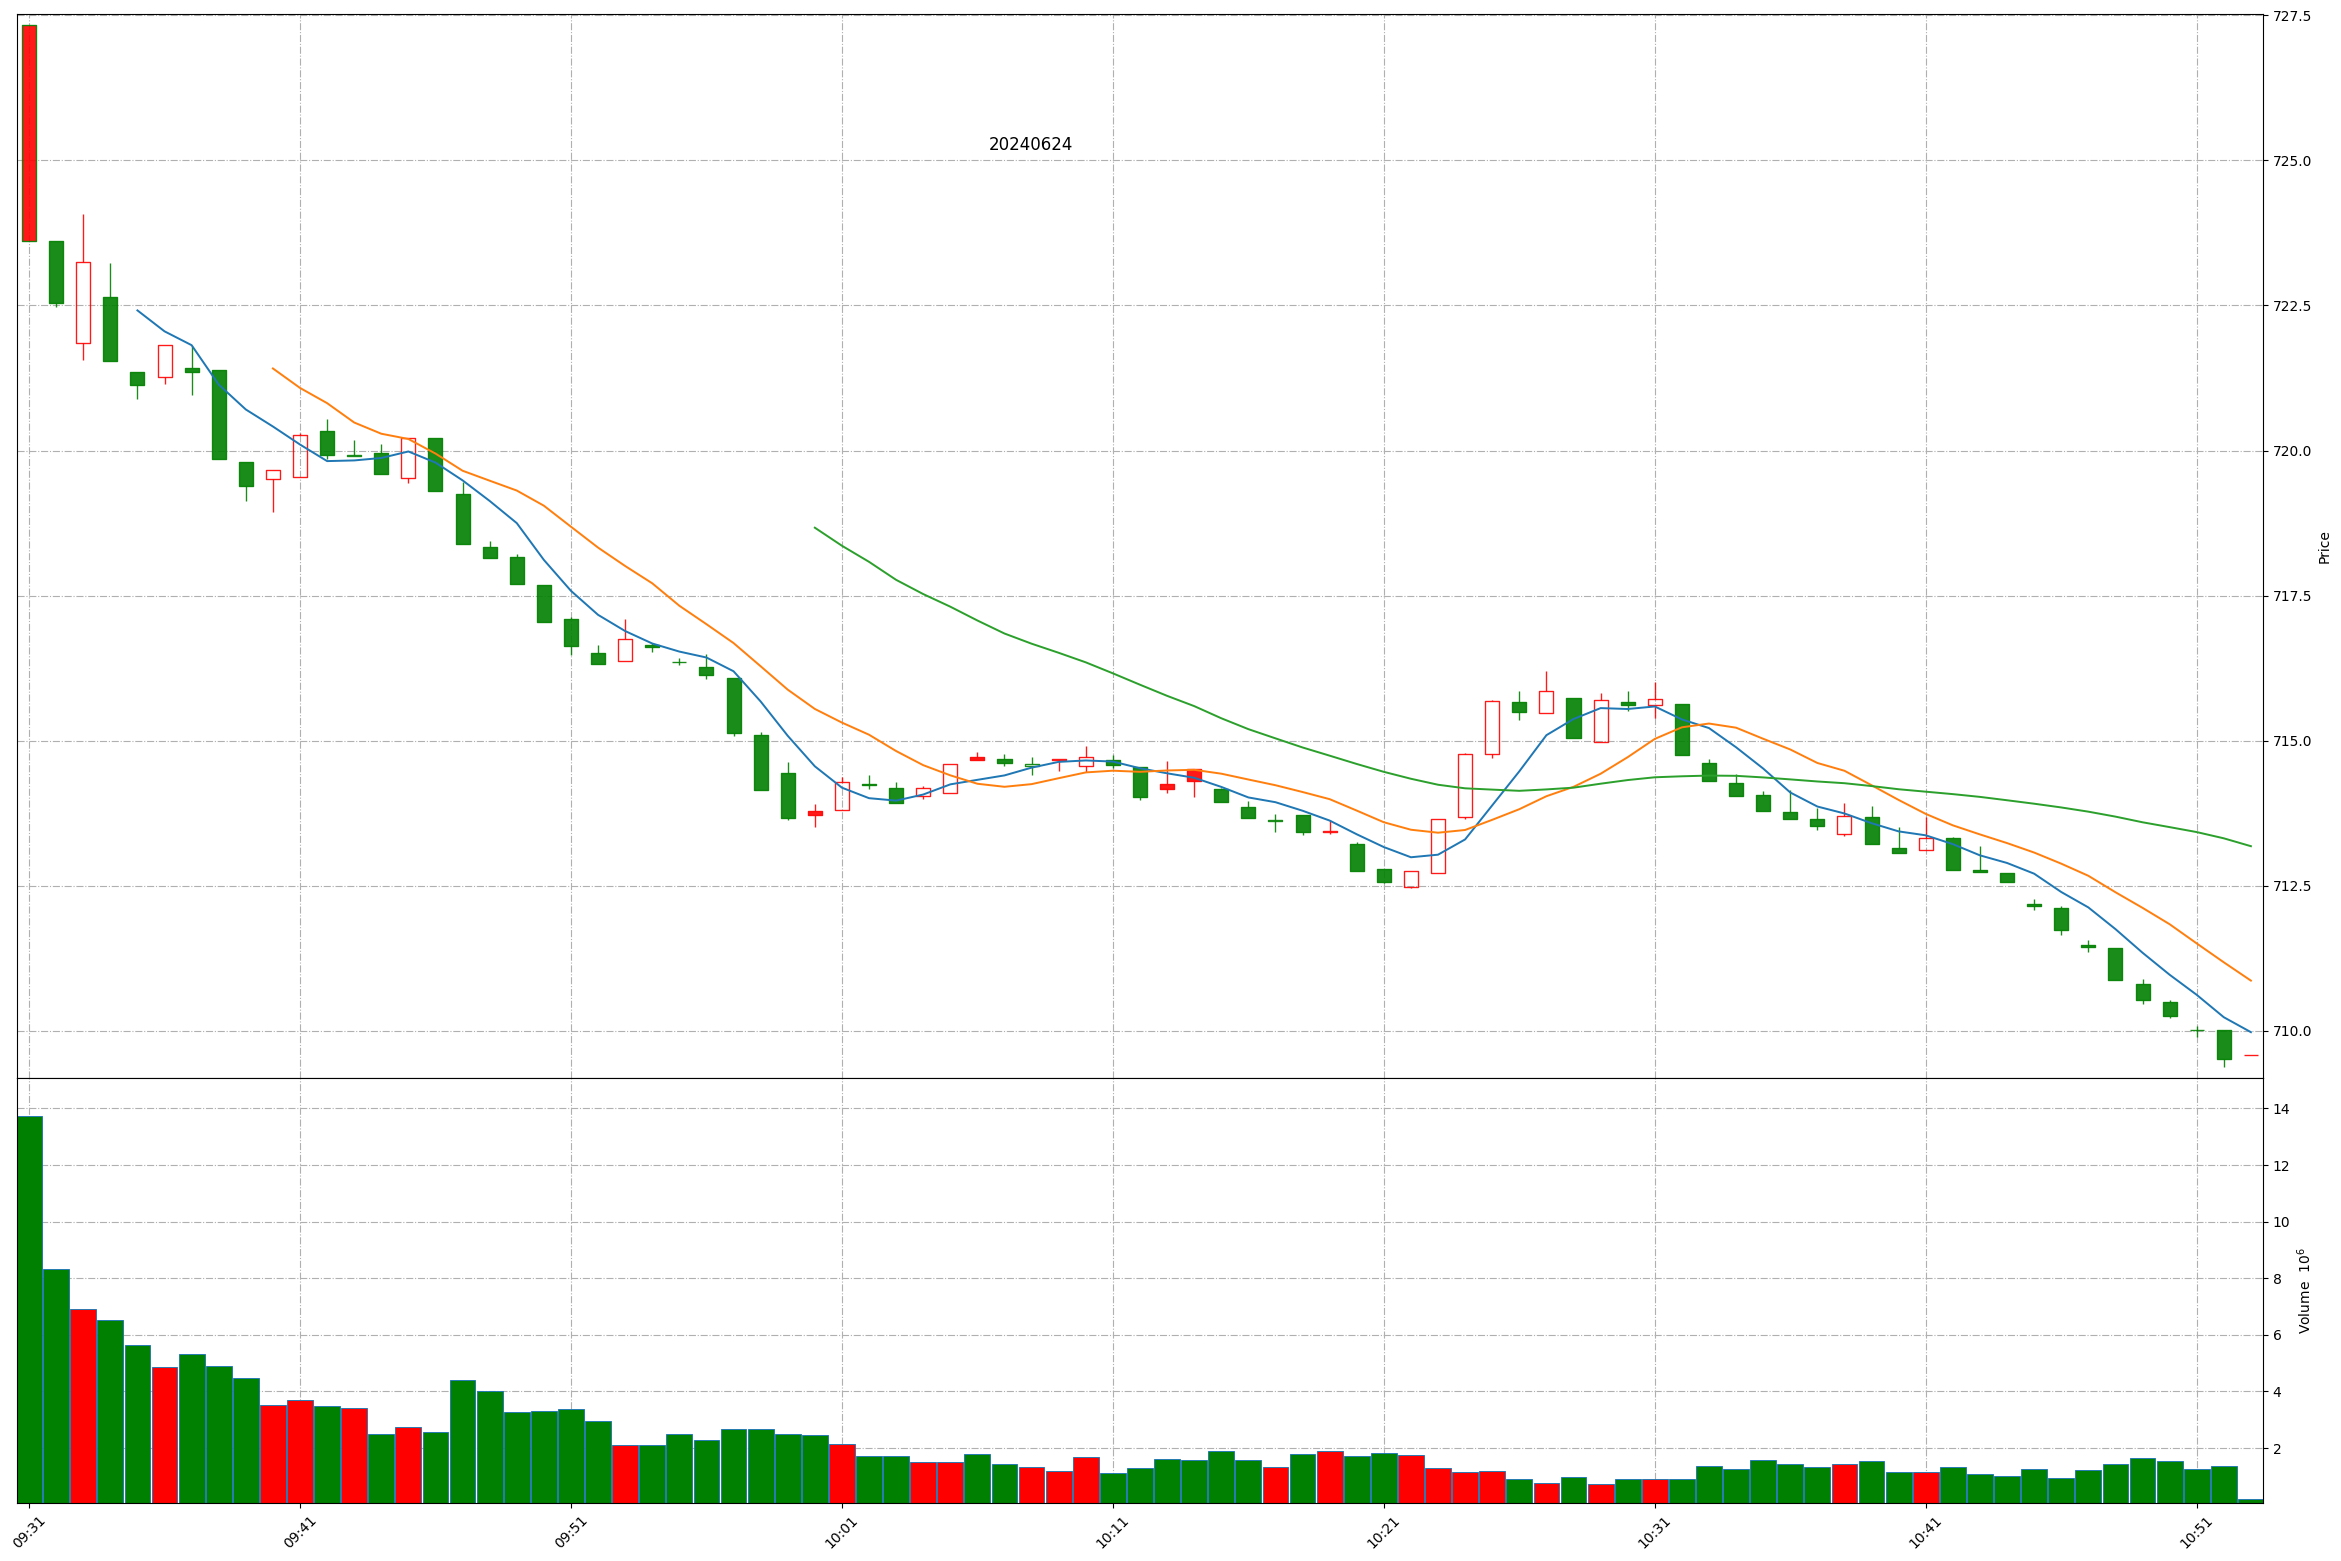
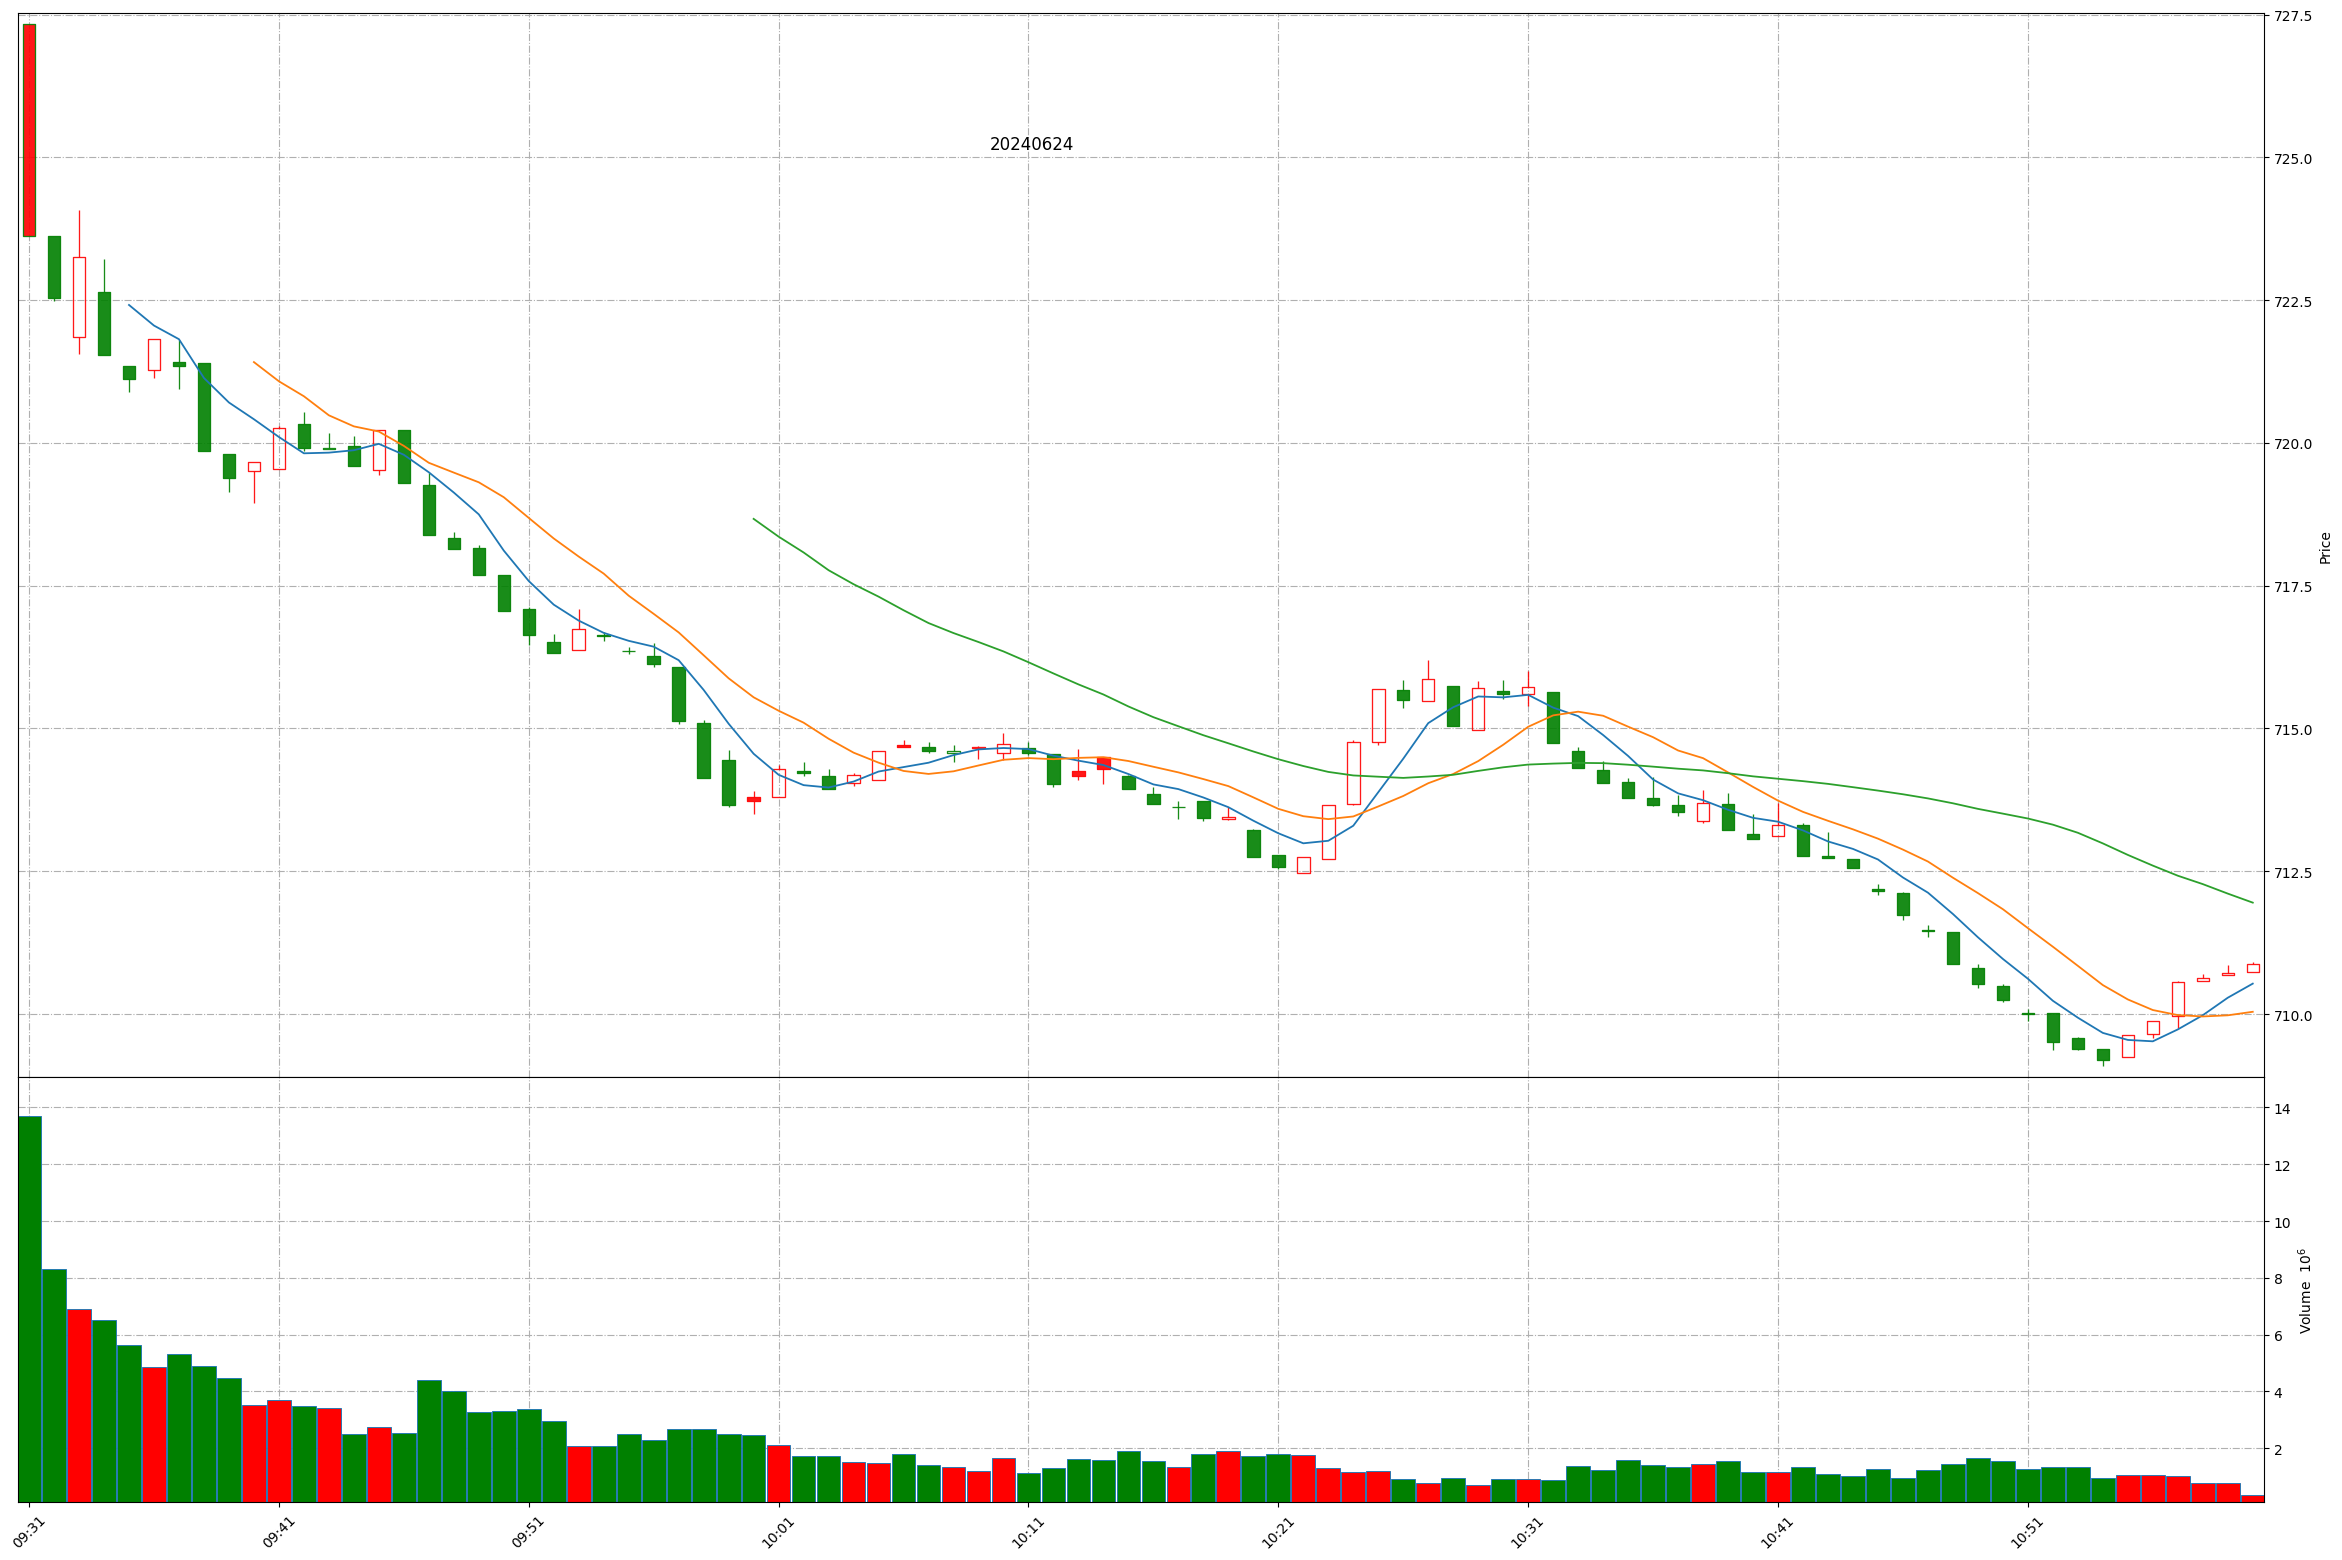
Github action update at 2024-06-24 10:59:42.

diff --git a/README.md b/README.md
@@ -1,11 +1,11 @@
 
 # Daily-A-share-market-quotes 每日 A 股指数（5min 更新）- 20240624
 
-### 上证指数 20240624 10:52
+### 上证指数 20240624 10:59
 ![](./fig/2024/6/20240624-sh000001.png)
 
-### 深证成指 20240624 10:52
+### 深证成指 20240624 10:59
 ![](./fig/2024/6/20240624-sz399001.png)
 
-### 北证50 20240624 10:52
+### 北证50 20240624 10:59
 ![](./fig/2024/6/20240624-bj899050.png)
